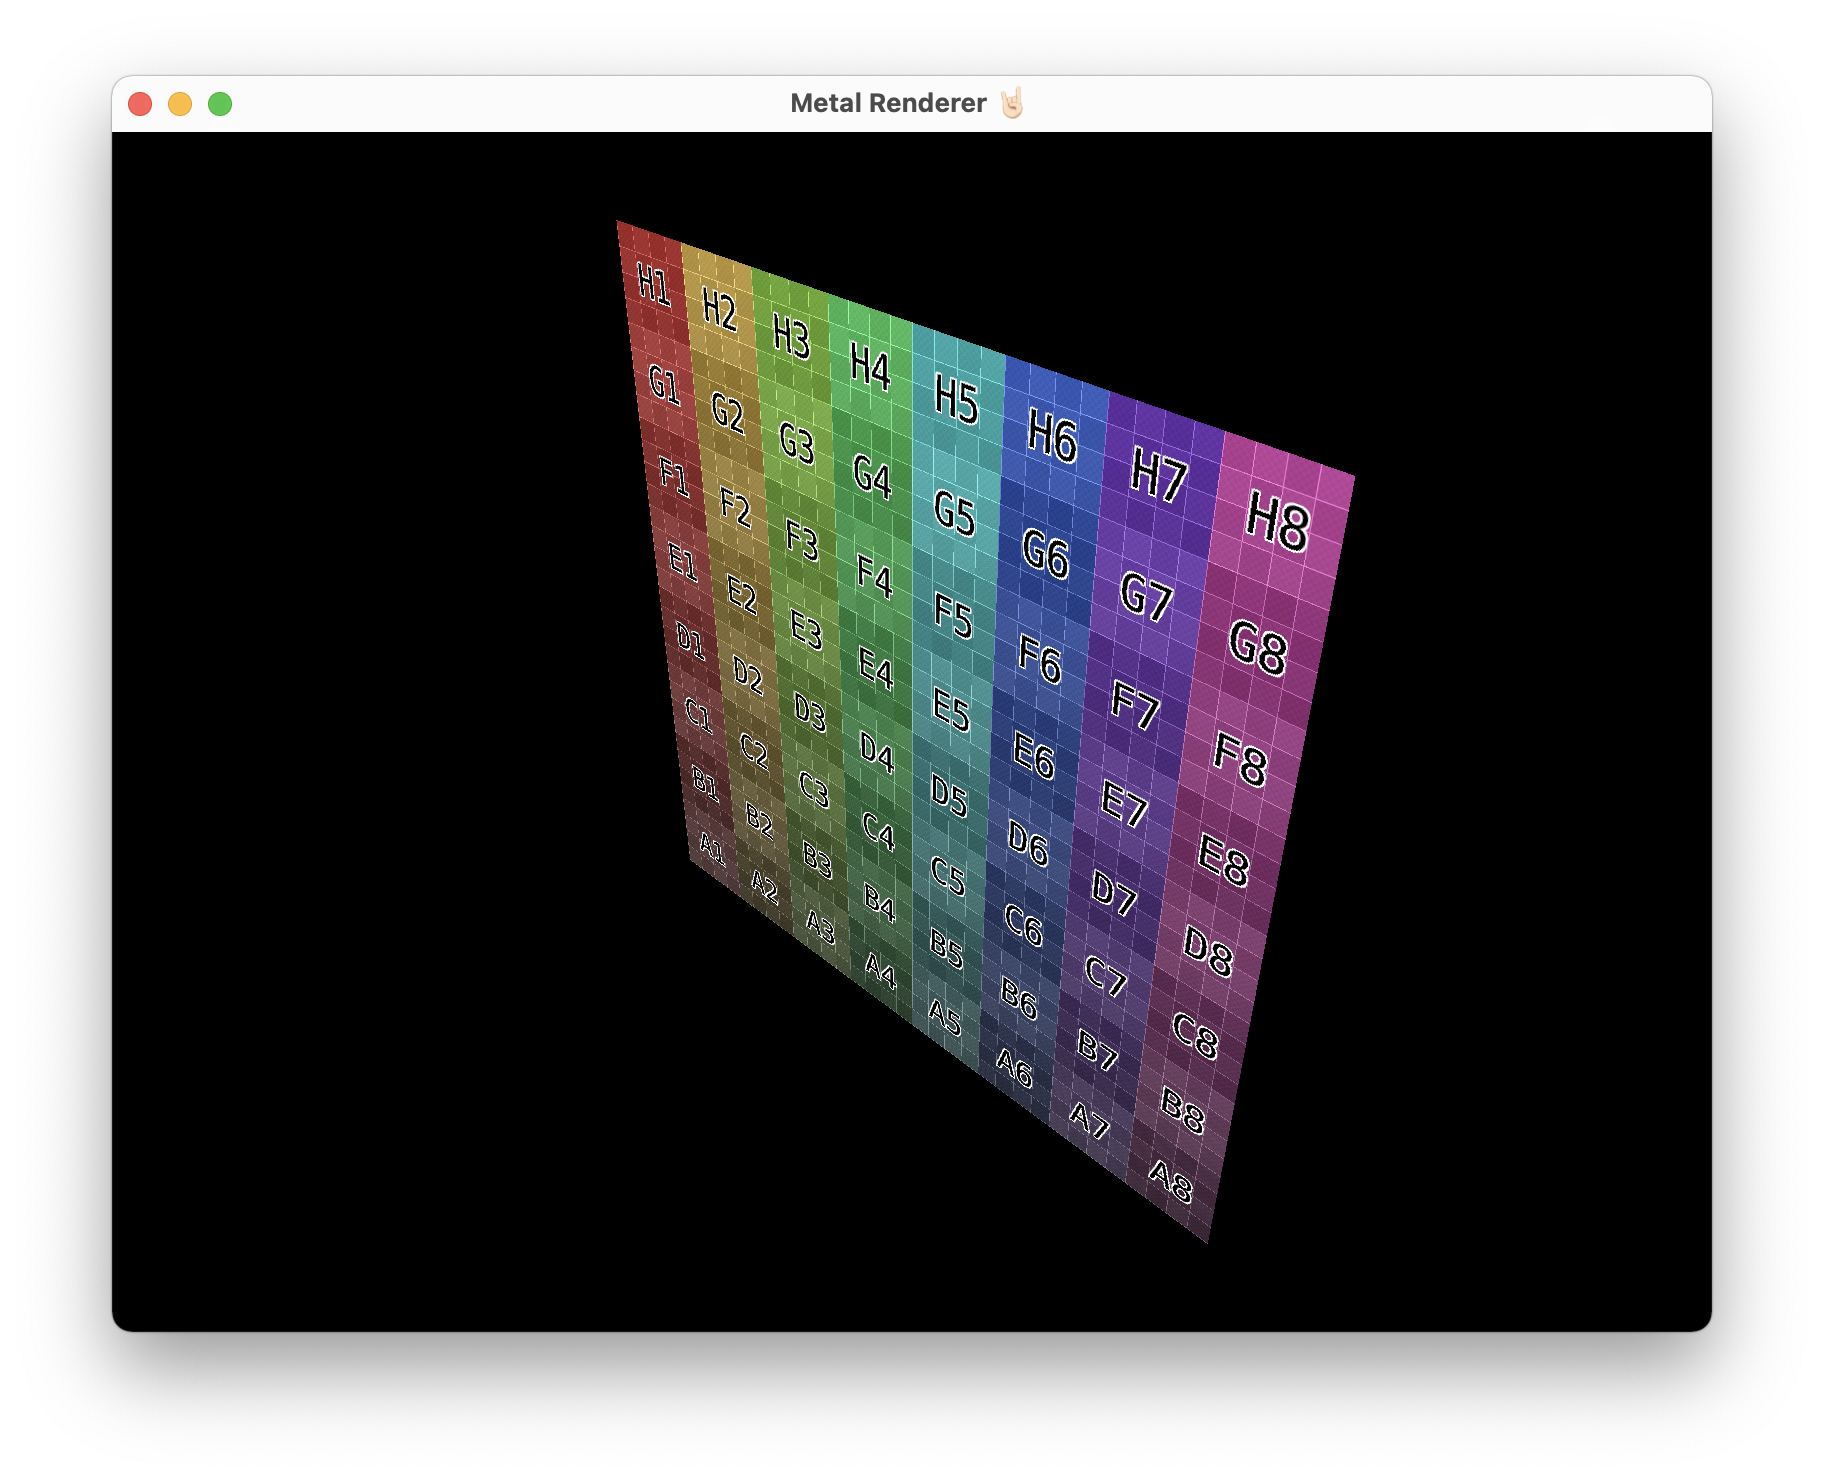
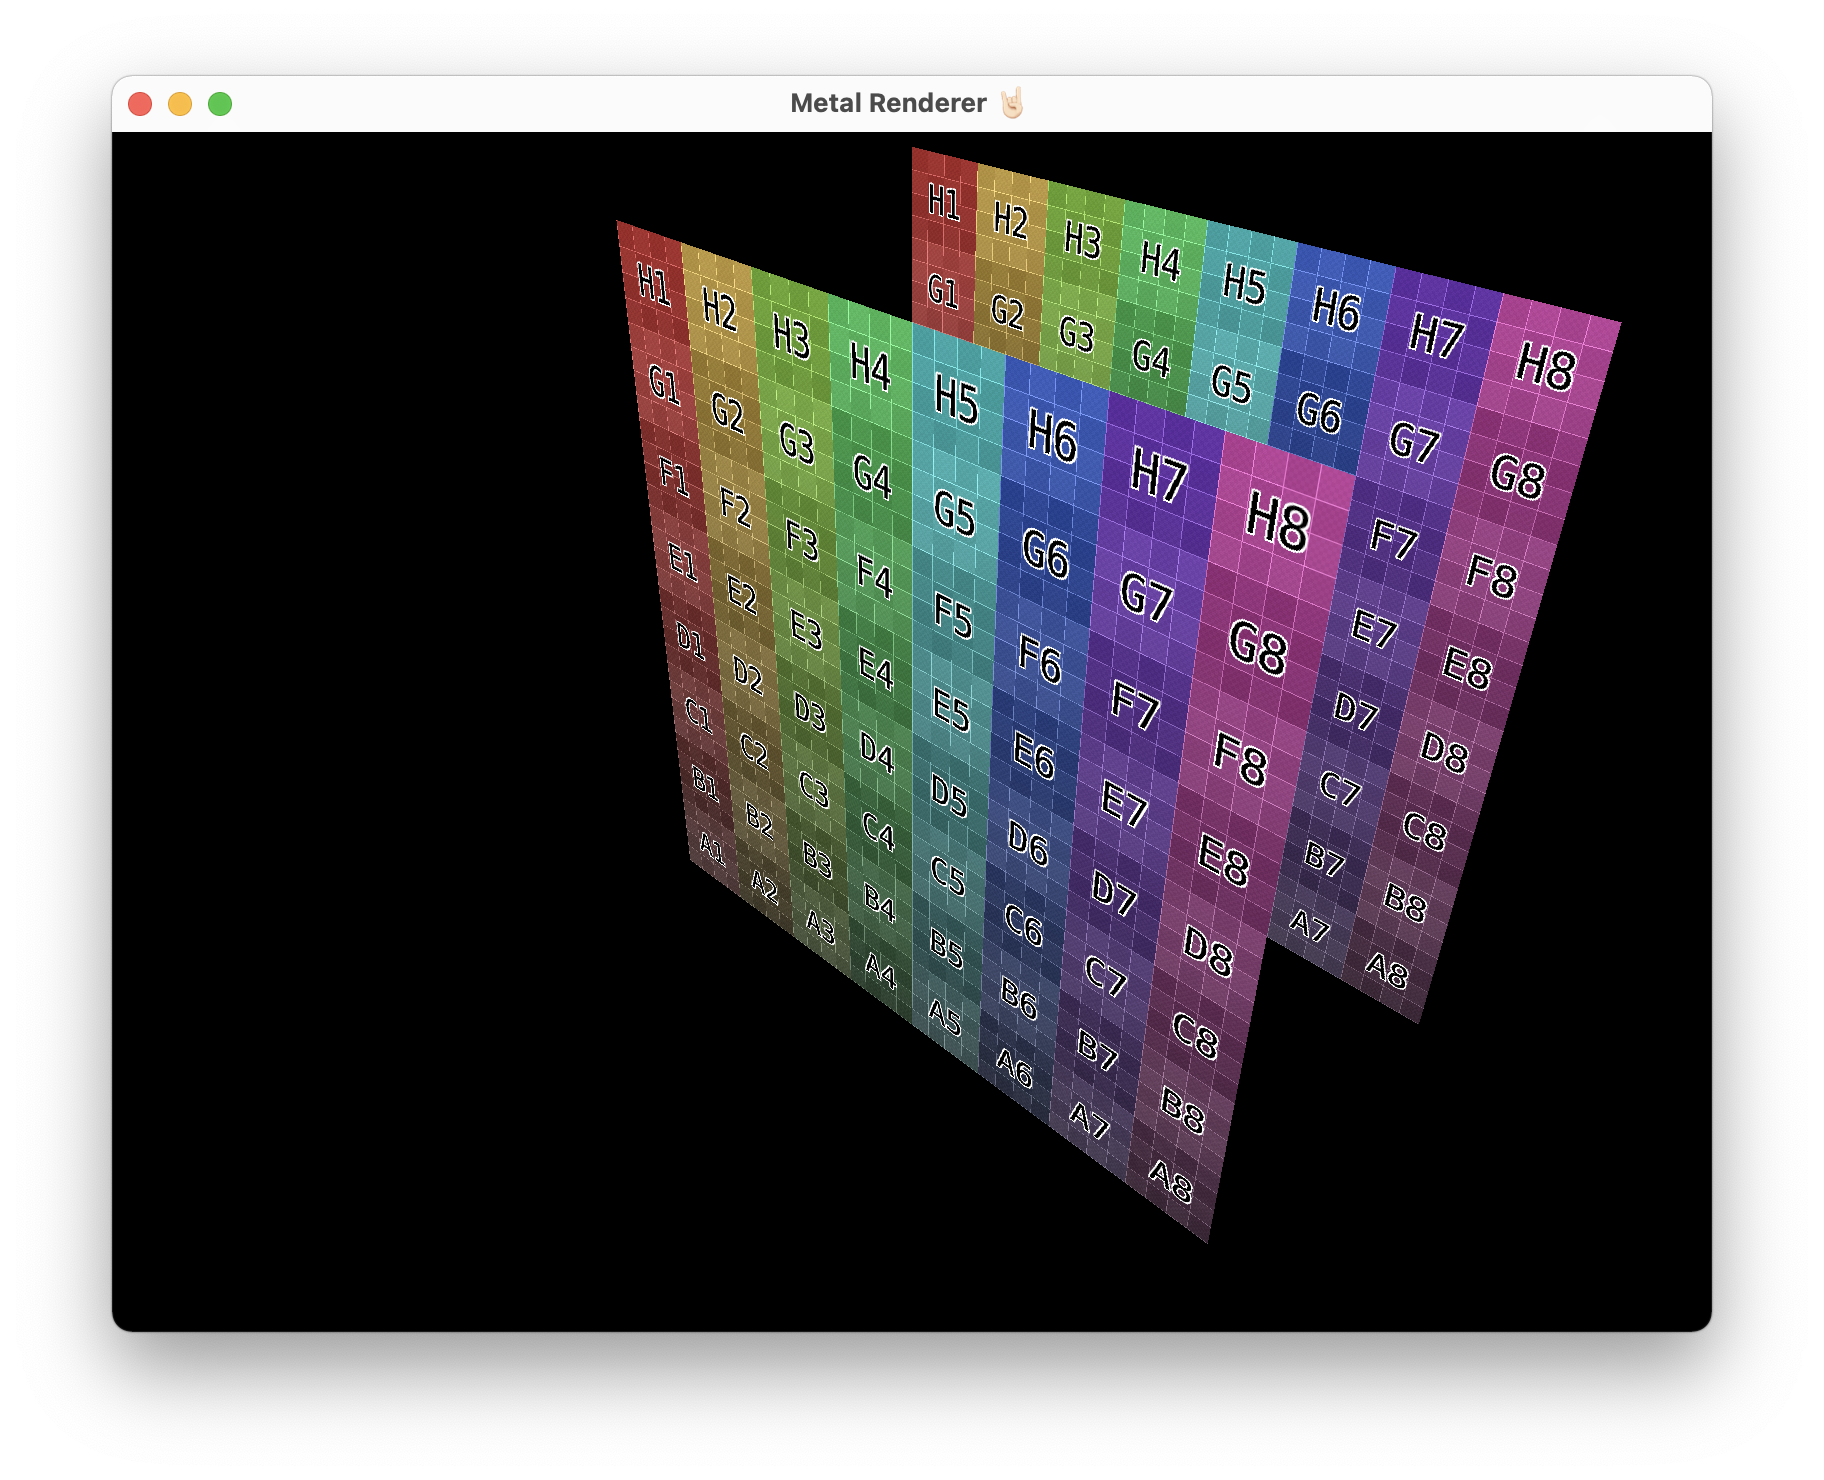
Depth testing

Changed region(s): [[0.5, 0.0932, 0.9062, 0.6838]]

diff --git a/Sources/SteelPhoenixEngine/Renderer.swift b/Sources/SteelPhoenixEngine/Renderer.swift
@@ -21,6 +21,8 @@ public class Renderer : NSObject
     // TODO: Pre-built collection?
     private var mSamplerState:  MTLSamplerState?
 
+    private var mDepthStencilState: MTLDepthStencilState?
+
     // TODO: use an array of Vertex
     // TODO: Load from file
     // TODO: Load models on demand
@@ -44,10 +46,31 @@ public class Renderer : NSObject
         [ 1.0,  1.0, 1.0 ],
         [ 0.0,  0.0, 0.0 ]
     ]
+    let vertexData2: [SIMD3<Float>] =
+    [
+        // v0
+        [-0.5, -0.5, 0.5 ], // position
+        [ 1.0,  0.0, 0.0 ], // color
+        [ 0.0,  1.0, 0.0 ], // UVs TODO: use just 2 floats
+        // v1
+        [ 0.5, -0.5, 0.5 ],
+        [ 0.0,  1.0, 0.0 ],
+        [ 1.0,  1.0, 0.0 ],
+        // v2
+        [ 0.5,  0.5, 0.5 ],
+        [ 0.0,  0.0, 1.0 ],
+        [ 1.0,  0.0, 0.0 ],
+        // v3
+        [-0.5,  0.5, 0.5 ],
+        [ 1.0,  1.0, 1.0 ],
+        [ 0.0,  0.0, 0.0 ]
+    ]
 
     public init(mtkView: MTKView)
     {
         mView = mtkView
+        mView.depthStencilPixelFormat = MTLPixelFormat.depth16Unorm
+        mView.clearDepth              = 1.0
 
         guard let cq = mView.device?.makeCommandQueue() else
         {
@@ -87,12 +110,19 @@ public class Renderer : NSObject
         pipelineDescriptor.vertexFunction                  = vertexFunction
         pipelineDescriptor.fragmentFunction                = fragmentFunction
         pipelineDescriptor.vertexDescriptor                = vertDesc
+        pipelineDescriptor.depthAttachmentPixelFormat      = mView.depthStencilPixelFormat
 
         guard let ps = try! mView.device?.makeRenderPipelineState(descriptor: pipelineDescriptor) else
         {
             fatalError("Couldn't create pipeline state")
         }
         mPipelineState = ps
+
+        let depthStencilDesc = MTLDepthStencilDescriptor()
+        depthStencilDesc.depthCompareFunction = .less
+        depthStencilDesc.isDepthWriteEnabled  = true
+
+        mDepthStencilState = mView.device?.makeDepthStencilState(descriptor: depthStencilDesc)
 
         mIndexBuffer = mView.device?.makeBuffer(bytes: indices,
                                                 length: indices.count * MemoryLayout.size(ofValue: indices[0]),
@@ -124,6 +154,9 @@ public class Renderer : NSObject
         let vertexBuffer = mView.device?.makeBuffer(bytes: vertexData,
                                                     length: dataSize,
                                                     options: [])
+        let vertexBuffer2 = mView.device?.makeBuffer(bytes: vertexData2,
+                                                    length: dataSize,
+                                                    options: [])
 
         // TODO: Use Constant Buffer?
         var ubo   = UniformBufferObject()
@@ -145,12 +178,32 @@ public class Renderer : NSObject
 
         let commandEncoder = commandBuffer.makeRenderCommandEncoder(descriptor: mView.currentRenderPassDescriptor!)
         commandEncoder?.setRenderPipelineState(mPipelineState)
+        commandEncoder?.setDepthStencilState(mDepthStencilState)
         commandEncoder?.setFrontFacing(.counterClockwise)
         commandEncoder?.setCullMode(.back)
         commandEncoder?.setVertexBuffer(vertexBuffer, offset: 0, index: VERTEX_BUFFER_INDEX)
         commandEncoder?.setVertexBuffer(uniformBuffer, offset: 0, index: UNIFORM_BUFFER_INDEX)
         commandEncoder?.setFragmentTexture(mTexture, index: 0)
         commandEncoder?.setFragmentSamplerState(mSamplerState, index: 0)
+
+        if mIndexBuffer != nil
+        {
+            commandEncoder?.drawIndexedPrimitives(type: .triangle,
+                                                  indexCount: 6,
+                                                  indexType: .uint16,
+                                                  indexBuffer: mIndexBuffer!,
+                                                  indexBufferOffset: 0)
+        }
+        else
+        {
+            print("WARNING: No index buffer!") // TODO: proper logging
+            commandEncoder?.drawPrimitives(type: .triangle,
+                                           vertexStart: 0,
+                                           vertexCount: vertexData.count / 2,
+                                           instanceCount: 1)
+        }
+
+        commandEncoder?.setVertexBuffer(vertexBuffer2, offset: 0, index: VERTEX_BUFFER_INDEX)
 
         if mIndexBuffer != nil
         {
